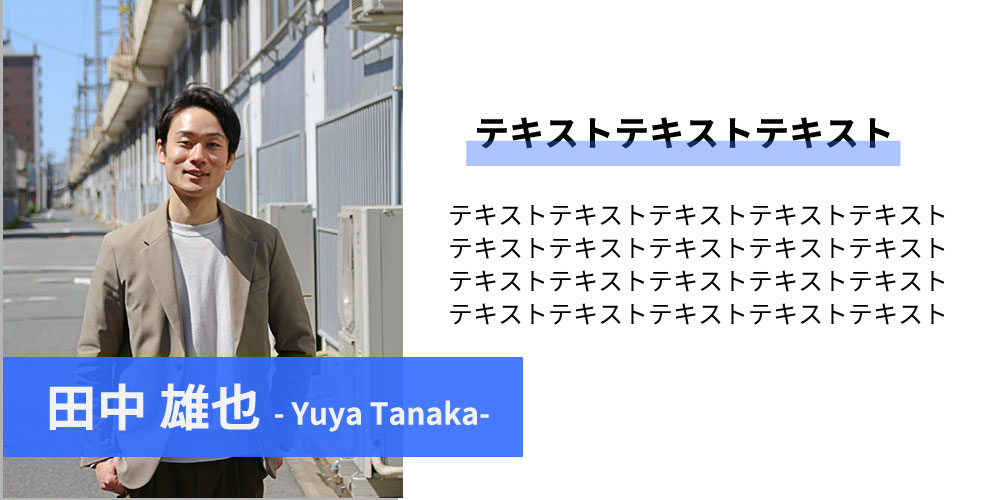
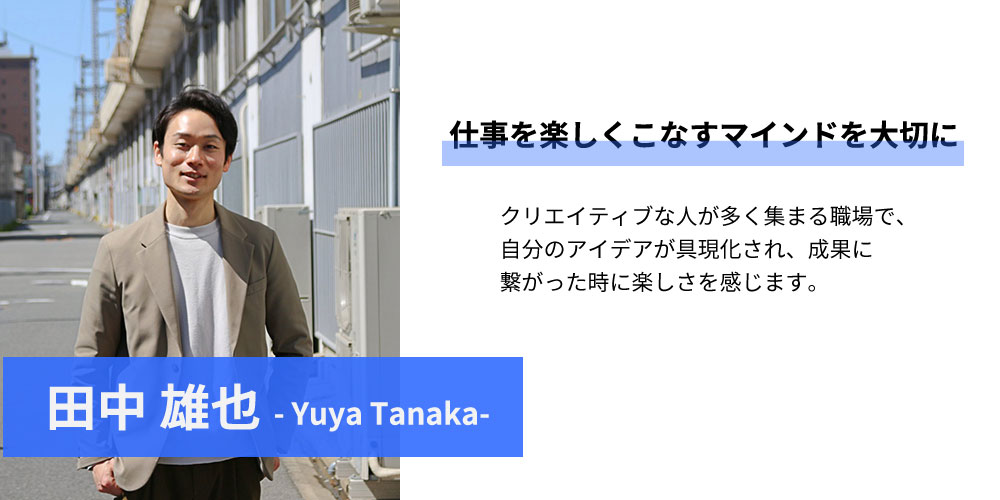
6/5編集パート２

diff --git a/index.html b/index.html
@@ -1,0 +1,92 @@
+<!doctype html>
+<html lang="ja">
+<head>
+<meta charset="utf-8">
+<meta name="viewport" content="width=device-width,initial-scale=1.0">
+<title>ディレクター紹介</title>
+<link href="style.css" rel="stylesheet" type="text/css">
+</head>
+
+<body>
+
+    <div class="box">
+        <div class="pc_nav">
+            <h1>
+                <a href="https://tokai-hr.com/">
+                <img src="img/h1.jpg" alt="東海HR" width="160px">
+                </a>
+            </h1>
+
+            <ul class="pc_list">
+                <li><a href="https://tokai-hr.com/case">過去の発注事例</a></li>
+                <li><a href="https://tokai-hr.com/interview">インタビュー</a></li>
+                <li><a href="https://tokai-hr.com/blog">ブログ</a></li>
+                <li><a href="https://tokai-hr.com/#registration">利用登録</a></li>
+                <li><a href="#">ディレクター紹介</a></li>
+                <li><a href="https://tokai-hr.com/#faq">FAQ</a></li>
+            </ul>
+        </div> <!-- .pc_nav -->
+
+
+        <div class="smartphone_box">
+
+            <input id="menu" type="checkbox" />
+            <label for="menu" class="open"><img src="img/menubutton.gif" alt="メニューボタン"></label>
+            <label for="menu" class="back"></label>
+
+            <aside>
+
+                <label for="menu" class="close">×</label>
+
+                <ul class="smartphone_list">
+                    <li><a href="https://tokai-hr.com/case">過去の発注事例</a></li>
+                    <li><a href="https://tokai-hr.com/interview">インタビュー</a></li>
+                    <li><a href="https://tokai-hr.com/blog">ブログ</a></li>
+                    <li><a href="https://tokai-hr.com/#registration">利用登録</a></li>
+                    <li><a href="#">ディレクター紹介</a></li>
+                    <li><a href="https://tokai-hr.com/#faq">FAQ</a></li>
+                </ul>
+            </aside>
+        </div> <!-- .smartphone_box -->
+    </div> <!-- .box -->
+
+    <div class="main">
+        <div class="contents_1">
+            <p class="block_1"><img src="img/tokaihr1_1.jpg" alt="田中雄也"></p>
+            <p class="more_1"><a href="page_01.html">btn</a></p>
+        </div>
+        <div class="contents_2">
+            <p class="block_2"><img src="img/tokaihr1_2.jpg" alt="齋藤剛"></p>
+            <p class="more_2"><a href="page_02.html">btn</a></p>
+        </div>
+        <div class="contents_1">
+            <p class="block_1"><img src="img/tokaihr1_3.jpg" alt="高須雅也"></p>
+            <p class="more_1"><a href="page_03.html">btn</a></p>
+        </div>
+    </div> <!-- .main -->
+
+
+        <div class="footer">
+            <div class="flex">
+                <ul class="footernav_one">
+                    <li><a href="https://tokai-hr.com/case">過去の発注事例</a></li>
+                    <li><a href="https://tokai-hr.com/interview">インタビュー</a></li>
+                    <li><a href="https://tokai-hr.com/blog">ブログ</a></li>
+                    <li><a href="#">ディレクター紹介</a></li>
+                    <li><a href="https://tokai-hr.com/#faq">FAQ</a></li>
+                    <li><a href="https://tokai-hr.com/#registration">利用登録</a></li>
+                </ul>
+    
+                <ul class="footernav_two">
+                    <li><a href="https://tokai-hr.com/company-contact">会社概要</a></li>
+                    <li><a href="https://tokai-hr.co.jp/terms-of-service/">利用規約</a></li>
+                    <li><a href="https://tokai-hr.com/company-contact#contact-general">お問い合わせ</a></li>
+                    <li><a href="https://line.me/R/ti/p/%40869zdduh">LINEアカウント</a></li>
+                </ul>
+            </div> <!-- .flex -->
+    
+            <p>&copy; 2020 TOKAI HR Inc.</p>
+        </div>
+
+</body>
+</html>

diff --git a/style.css b/style.css
@@ -10,12 +10,6 @@ img {
     vertical-align: bottom;
 }
 
-.clearfix {
-    content: "";
-    display: block;
-    clear: both;
-}
-
 body {
     font-family: 'Noto Sans JP', sans-serif;
 }
@@ -72,26 +66,53 @@ aside,
 
 /* メイン */
 
-.topimage {
-    text-align: center;
-    margin-bottom: 70px;
-}
-
 .main {
-    width: 800px;
+    width: 1000px;
     margin: auto;
-    padding-bottom: 50px;
 }
 
-h2 {
-    border-bottom: solid 10px #ffc1ad;
+.contents_1 {
+    position: relative;
     margin-bottom: 20px;
-    font-size: 20px;
 }
 
-.answer {
-    margin-bottom: 40px;
-    line-height: 2;
+.more_1 a {
+    position: absolute;
+    right: 50px;
+    bottom: 80px;
+    background-image: url(img/btn.gif);
+    display: block;
+    width: 169px;
+    height: 62px;
+    text-indent: 100%;
+    white-space: nowrap;
+    overflow: hidden;
+}
+
+.more_1 a:hover {
+    background-position: 0 62px;
+}
+
+.contents_2 {
+    position: relative;
+    margin-bottom: 20px;
+}
+
+.more_2 a {
+    position: absolute;
+    left: 100px;
+    bottom: 80px;
+    background-image: url(img/btn.gif);
+    display: block;
+    width: 169px;
+    height: 62px;
+    text-indent: 100%;
+    white-space: nowrap;
+    overflow: hidden;
+}
+
+.more_2 a:hover {
+    background-position: 0 62px;
 }
 
 /* フッター */
@@ -130,19 +151,25 @@ h2 {
 }
 
 
-
 /* ここからタブレット */
+
 @media screen and (max-width: 768px)
 {
 
-.topimage img {
+.block_1 img,
+.block_2 img {
     width:100%;
     max-width: 100%;
     height: auto;
 }
 
 .main {
-    width: 400px;
+    width: 100%;
+}
+
+.more_1 a,
+.more_2 a {
+    bottom: 30px;
 }
 
 .pc_list {
@@ -207,14 +234,15 @@ input[type="checkbox"]:checked ~ .back {
 @media screen and (max-width: 480px)
 {
 
-.topimage img {
+.block_1 img, 
+.block_2 img {
     width:100%;
     max-width: 100%;
     height: auto;
 }
 
 .main {
-    width: 300px;
+    width: 100%;
 }
 
 .flex {
@@ -235,4 +263,3 @@ input[type="checkbox"]:checked ~ .back {
 }
 
 }
-

diff --git a/page_01.css b/page_01.css
@@ -10,12 +10,6 @@ img {
     vertical-align: bottom;
 }
 
-.clearfix {
-    content: "";
-    display: block;
-    clear: both;
-}
-
 body {
     font-family: 'Noto Sans JP', sans-serif;
 }
@@ -31,6 +25,7 @@ h1 {
     align-items: center;
     height: 62px;
     font-weight: bold;
+    margin-bottom: 50px;
 }
 
 .pc_list {
@@ -183,7 +178,6 @@ input[type="checkbox"]:checked ~ .back {
     position: absolute;
     width: 100%;
     height: 100%;
-    background-color: rgba(0, 0, 0, 0.8);
 }
 
 .open {
